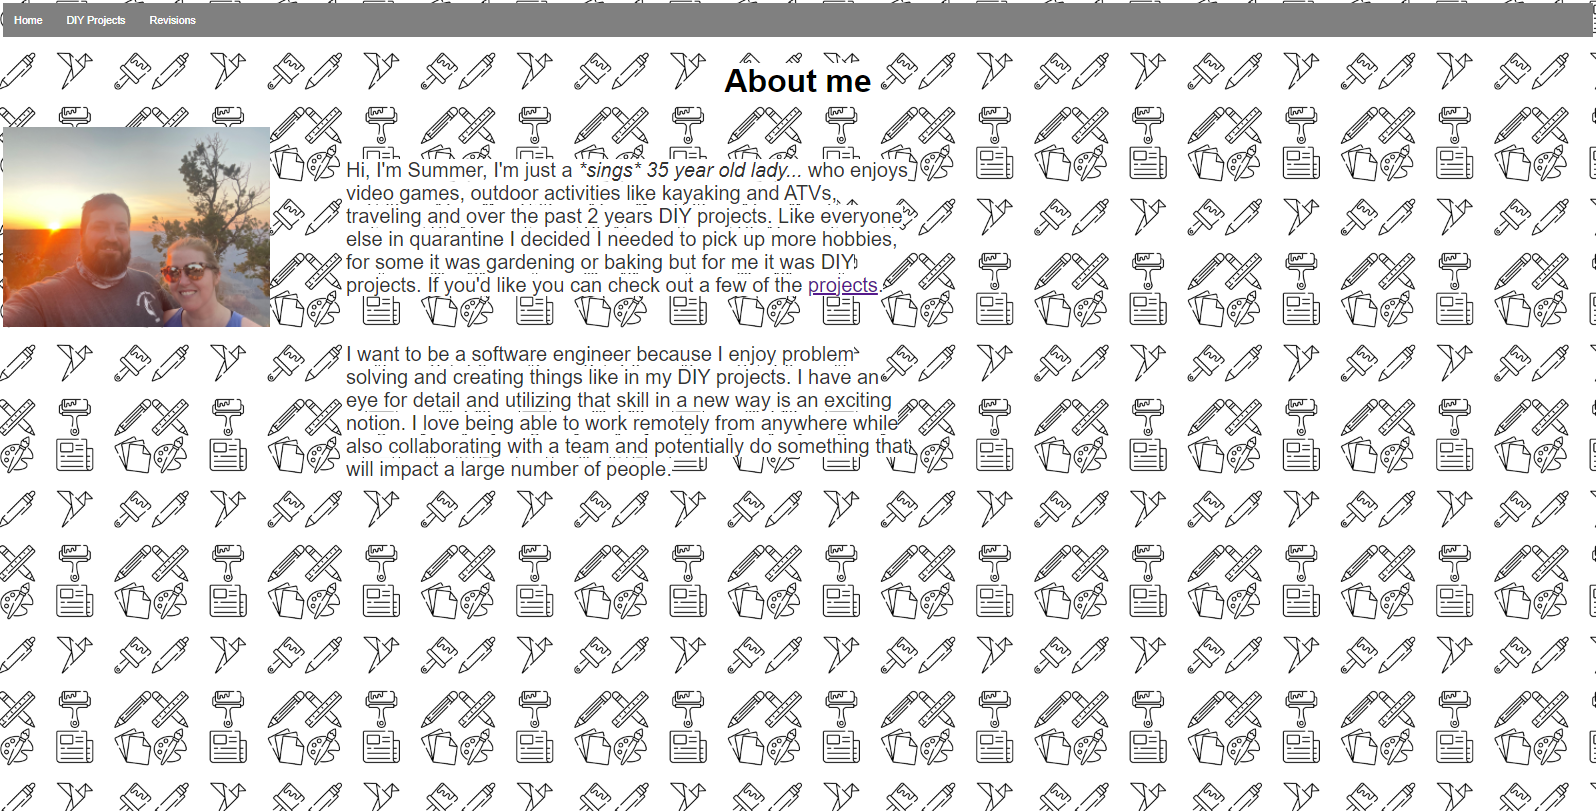
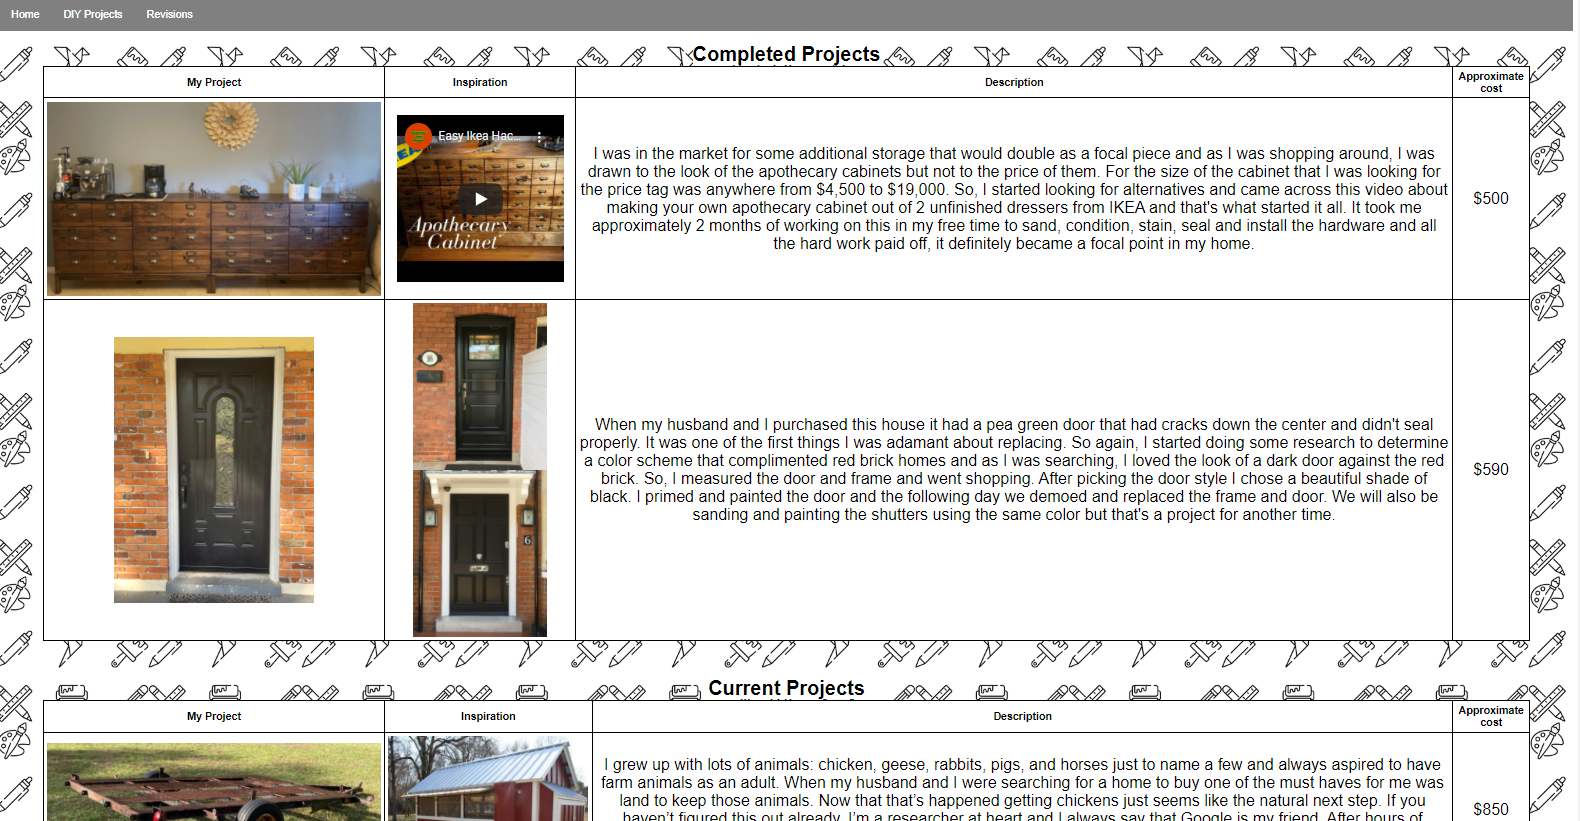
main

diff --git a/DIYprojects.html b/DIYprojects.html
@@ -32,16 +32,13 @@
             <tr>
                  <td><img src="images/apothecary.jpg" alt="apothecary" width="500"></td>
                  <td><iframe width="250" height="250" src="https://www.youtube.com/embed/N80wTt-R9Vs" title="YouTube video player" frameborder="0" allow="accelerometer; autoplay; clipboard-write; encrypted-media; gyroscope; picture-in-picture" allowfullscreen></iframe></td>
-                 <td>I built this apothecary cabinet using 2 unfinished dressers from IKEA,lots of stain,
-                     time, love and some cute hardware.</td>
+                 <td>I was in the market for some additional storage that would double as a focal piece and as I was shopping around, I was drawn to the look of the apothecary cabinets but not to the price of them.  For the size of the cabinet that I was looking for the price tag was anywhere from $4,500 to $19,000. So, I started looking for alternatives and came across this video about making your own apothecary cabinet out of 2 unfinished dressers from IKEA and that's what started it all.  It took me approximately 2 months of working on this in my free time to sand, condition, stain, seal and install the hardware and all the hard work paid off, it definitely became a focal point in my home.</td>
                  <td>$500</td>
              </tr>
              <tr>
                  <td><img src="images/door1.jpg" alt="black front door" width="300"></td>
                  <td><img src="images/doorinspo1.jpg" alt="black front door" width="200" height="250"> <img src="images/doorinspo2.jpg" alt="black front door" width="200" height="250"></td>
-                 <td>I replaced and painted the front door and trim to my home. It
-                     was previously an unflattering green door that didn't have a 
-                     good seal.</td>
+                 <td>When my husband and I purchased this house it had a pea green door that had cracks down the center and didn't seal properly.  It was one of the first things I was adamant about replacing. So again, I started doing some research to determine a color scheme that complimented red brick homes and as I was searching, I loved the look of a dark door against the red brick.  So, I measured the door and frame and went shopping.  After picking the door style I chose a beautiful shade of black.  I primed and painted the door and the following day we demoed and replaced the frame and door. We will also be sanding and painting the shutters using the same color but that's a project for another time.</td>
                  <td>$590</td>
             </tr>
         </table>
@@ -62,7 +59,7 @@
             <tr>
                  <td><img src="images/coop3.jpg" alt="utility trailer" width="500"></td>
                  <td><img src="images/henhouse2.jpg" alt="chicken coop" width="300"></td>
-                 <td>I am in the process of turning this utility trailer into a mobile chicken coop.</td>
+                 <td>I grew up with lots of animals: chicken, geese, rabbits, pigs, and horses just to name a few and always aspired to have farm animals as an adult.  When my husband and I were searching for a home to buy one of the must haves for me was land to keep those animals. Now that that’s happened getting chickens just seems like the natural next step.  If you haven’t figured this out already, I’m a researcher at heart and I always say that Google is my friend. After hours of research, I decided a mobile coop was the best option for us. And again, the price tag on a pre-built mobile coop was way more than I was comfortable with.  Due to the lumber shortage, we haven’t started the build yet but hopefully soon…</td>
                  <td>$850</td>
              </tr>
         </table>

diff --git a/revisions.html b/revisions.html
@@ -19,40 +19,43 @@
     </header> <br><br>  
 <main>
       <h2>Revisions</h2>
-      <p class="introduction">After requesting some feedback on my site from some 
+      <p class="introduction">After requesting some feedback on my site from 
                 co-workers and family these are the revisions that I made based on
-                that feedback.</p>
+                that feedback. Below you will see the before image of the site on 
+                the left and after image on the right with the details of the suggestions
+                I received between each image.</p>
     <ul>
         <li>
           <div class="revisions">
-	    <img src="images/revision1.PNG" alt="before revision" width="800" height="600">
-            <p>The first revisions I made were to the homepage, a co-worker made 
+	    <img src="images/revision1.PNG" alt="before revision">
+            <p class="">The first revisions I made were to the homepage, a co-worker made 
                note that the main header looked bulky and the background color of 
                the "about me" and paragraphs of the home page took up the length of 
                the page.  So I made the header more compact and adjusted the background 
                color to only span the length of the word and not across the entire page.</p>
-        <img src="images/revision2.PNG" alt="after revision" width="800" height="600">
+        <img src="images/revision2.PNG" alt="after revision">
           </div>
         </li>
-        <br><br><br><br>
+        <br><br>
         <li>
             <div class="revisions">
-          <img src="images/revision3.PNG" alt="before revision" width="800" height="600">
+          <img src="images/revision3.PNG" alt="before revision">
               <p>The next revision I made was to the project page. The feedback I received was
                  that all the extra space around the images made the site look clunky. I realigned
-                 the table to reduce that excess space and imcreased the size of the table header
+                 the table to reduce that excess space and increased the size of the table header
                  to make it more readable.</p>
-              <img src="images/revision4.PNG" alt="after revision" width="800" height="600">
+              <img src="images/revision4.PNG" alt="after revision">
             </div>
         </li>
         <br><br><br><br>
         <li>
             <div class="revisions">
-          <img src="images/revision5.PNG" alt="before revision" width="800" height="600">
-              <p>The third revision I made was also to the homepage. The notes that I 
-                 received were to 
+          <img src="images/revision4.PNG" alt="before revision">
+              <p>The last revision I made was also to the project page. It was suggested that 
+                I include more details about the projects, whether it be why I chose these projects
+                or how I went about completeing them.
               </p>
-          <img src="images/revision6.PNG" alt="after revision" width="800" height="600">
+          <img src="images/revision5.PNG" alt="after revision">
             </div>
           </li>
     </ul>

diff --git a/index.html b/index.html
@@ -18,26 +18,30 @@
             <h1><span>About me</span></h1>
         </nav>
     </header>    
-    <aside>
-        <img src="images/summer2.jpg" alt="picture of Summer" height="400">
-    </aside>
     <main>
-        <p><span>Hi, I'm Summer, I'm just a <i>*sings* 35 year old lady...</i> who 
-            enjoys video games, outdoor activities like kayaking and ATVs, traveling and
-            over the past 2 years DIY projects.  Like everyone else in quarantine I 
-            decided I needed to pick up more hobbies, for some it was gardening or 
-            baking but for me it was DIY projects.  If you'd like you can check out a
-            few of the <a href="DIYprojects.html">projects</a>.
-    <br>
-    <br>
-    <br>
-        I want to be a software engineer because I enjoy problem solving and creating 
+        <p><span>Hi, I'm Summer Thatcher and I'm just a self-proclaimed nerd who enjoys video games, outdoor activities like kayaking 
+            and ATVs, traveling and over the past couple years DIY projects.  Like everyone else 
+            in quarantine I decided I needed to pick up more hobbies, for some it was gardening
+            or baking but for me it was DIY projects.  If you'd like you can check out a
+            few of the <a href="DIYprojects.html">projects</a>. On February 6th 2022 I will
+            have been with Ford Credit for 15 years. In that time I went from an entry level
+            representative to an expert in my field of work, so much so that I've been trusted to
+            head the training for my entire department for representatives and supervisors alike.</span></p>
+                    <br><br><br>
+    <aside>
+        <img src="images/summer2.jpg" alt="picture of Summer" height="33%">
+        <img src="images/summer4.jpg" alt="picture of Summer" height="33%">
+        <img src="images/summer3.jpg" alt="picture of Summer" height="33%">
+    </aside>
+                    <br><br><br>
+        <p><span>I want to be a software engineer because I enjoy problem solving and creating 
         things like in my DIY projects. I have an eye for detail and utilizing that 
         skill in a new way is an exciting notion. I love being able to work remotely
         from anywhere while also collaborating with a team and potentially do something
-        that will impact a large number of people.
-
-</span></p>
+        that will impact a large number of people. The first time I ever played around with
+        HTML and CSS I was 12 and I can remeber feeling so cool that with just a few strokes
+        on the keyboard I could turn something drab and boring into something fun that
+        represented me and my personality.</span></p>
     </main>
 </body>
 </html>

diff --git a/style.css b/style.css
@@ -14,7 +14,7 @@ nav > ul {
     list-style-type: none;
     margin: 0;
     padding: 0;
-    background-color: grey;
+    background-color: black;
     
 }
 
@@ -41,8 +41,6 @@ h1 span {
 }
 
 p {
-    max-width: 850px;
-    padding-left: 600;
     font-family: Arial, Helvetica, sans-serif;
     font-size: 30px;
 }
@@ -50,6 +48,7 @@ p {
 p span {
     background-color: white;
 }
+
 body>main {
     font-family: Arial, Helvetica, sans-serif;
     padding: 18px 64px;
@@ -59,16 +58,8 @@ body>main {
     color: hsl(0, 0%, 20%);
 }
 
-body>main>img {
-    float: left;
-    margin-right: 24px;
-    margin-bottom: 24px;
-    margin-top: 6px;
-    animation: shake 3s;
-}
-
-aside>img {
-    position: fixed;
+aside {
+   padding-left: 12vw;
 }
 
 caption span {
@@ -90,6 +81,7 @@ td {
     text-align: left;
     vertical-align: left;
     background-color: white;
+    font-size: 1vw;
 }
 
 table, td, th {
@@ -99,5 +91,3 @@ table, td, th {
     text-align: center;
     background-color: white;
 }
-
-

diff --git a/revisionstyle.css b/revisionstyle.css
@@ -15,7 +15,7 @@ nav > ul {
     list-style-type: none;
     margin: 0;
     padding: 0;
-    background-color: grey;
+    background-color: black;
     
 }
 
@@ -31,20 +31,22 @@ h2 {
 
 p{
     padding-left: 25;
-    font-size: 30px;
+    font-size: 1.5vw;
 }
 div {
     display: flex;
 }
 
 li {
-    font-size: 20px;
     list-style: none;
 }
 
 .introduction {
     text-align: center;
-    padding: 36px 64px;
+    font-size: 1vw;
 }
 
-
+img {
+    width:33%;
+    height: 33%;
+}
